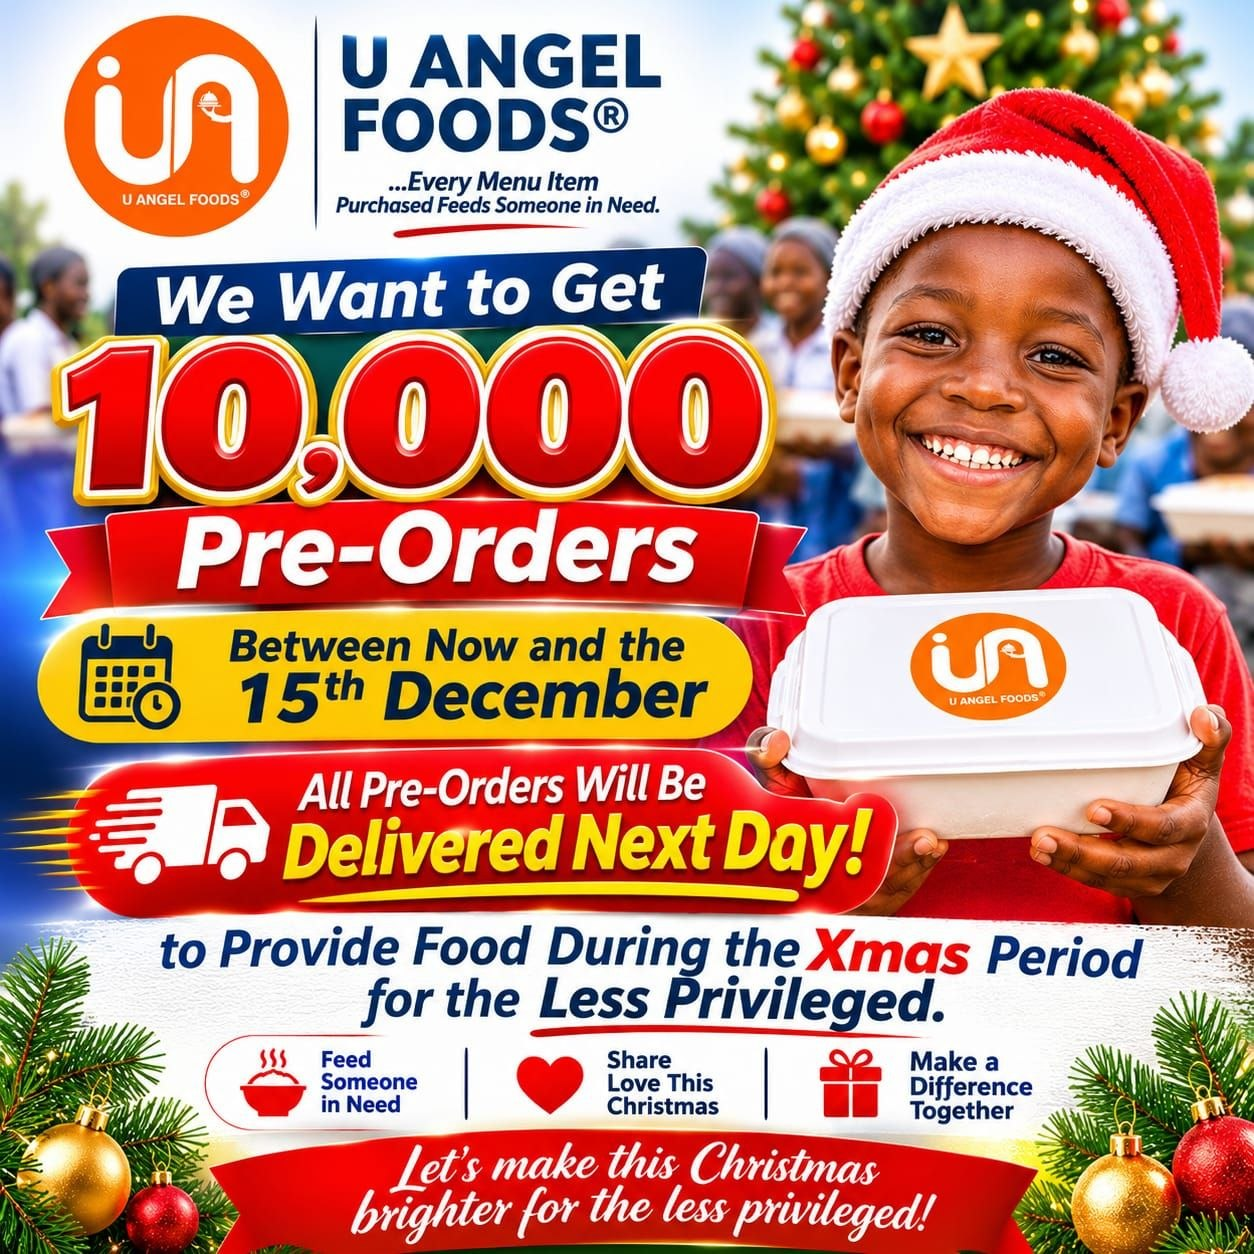
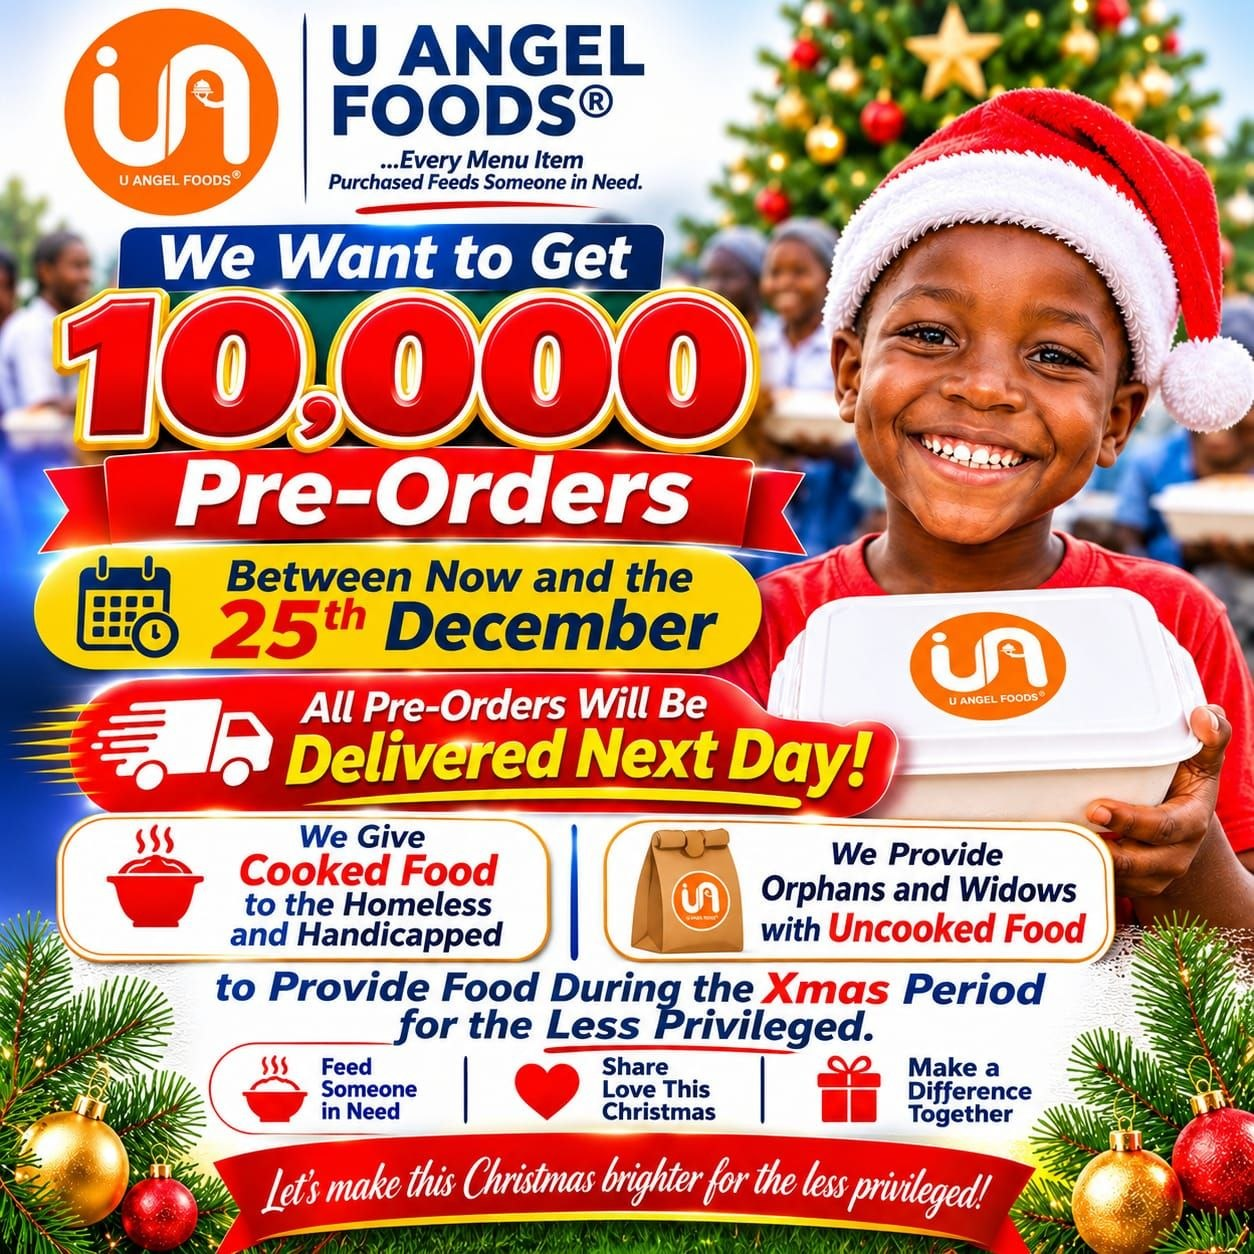
Christmas campaign: new flyer, deadline 25 December, cooked/uncooked food points

diff --git a/website/index.html b/website/index.html
@@ -12,8 +12,8 @@
   <meta property="og:site_name" content="U Angel Foods">
   <meta property="og:title" content="U Angel Foods — Every menu item purchased feeds someone in need">
   <meta property="og:description" content="Good food delivered across Lagos. The profit from what you buy supports our outreach programs. An initiative of Ecclesia Nation.">
-  <meta property="og:image" content="assets/campaign/xmas-10000-preorders.jpg">
-  <meta property="og:image:alt" content="U Angel Foods Christmas campaign: we want to get 10,000 pre-orders by 15 December">
+  <meta property="og:image" content="assets/campaign/xmas-10000-preorders-25dec.jpg">
+  <meta property="og:image:alt" content="U Angel Foods Christmas campaign: we want to get 10,000 pre-orders by 25 December">
   <meta property="og:locale" content="en_NG">
   <meta name="twitter:card" content="summary_large_image">
   <link rel="icon" type="image/png" sizes="32x32" href="assets/icon-32.png">
@@ -29,7 +29,7 @@
     (function () {
       var d = document.documentElement, off = false;
       try { off = sessionStorage.getItem('ua-xbar-dismissed') === '1'; } catch (e) {}
-      if (!off && Date.now() < Date.UTC(2026, 11, 15, 22, 59)) d.classList.add('has-xbar');
+      if (!off && Date.now() < Date.UTC(2026, 11, 25, 22, 59)) d.classList.add('has-xbar');
     })();
   </script>
 
@@ -53,8 +53,8 @@
     <div class="xbar-inner container">
       <p class="xbar-text">
         <span aria-hidden="true"><svg class="ico" viewBox="0 0 24 24" fill="none" stroke="currentColor" stroke-width="1.9" stroke-linecap="round" stroke-linejoin="round" aria-hidden="true"><path d="M12 2l5 7h-3l4 6h-4l3 5H7l3-5H6l4-6H7z"/><path d="M12 20v2"/></svg></span>
-        <span class="xbar-long">Help us reach <b>10,000 pre-orders</b> by 15 December. Every pre-order feeds someone in need this Christmas.</span>
-        <span class="xbar-short"><b>10,000 pre-orders</b> by 15 Dec. Every pre-order feeds someone.</span>
+        <span class="xbar-long">Help us reach <b>10,000 pre-orders</b> by 25 December. Every pre-order feeds someone in need this Christmas.</span>
+        <span class="xbar-short"><b>10,000 pre-orders</b> by 25 Dec. Every pre-order feeds someone.</span>
       </p>
       <a class="xbar-link" href="#christmas">Pre-order →</a>
       <button class="xbar-close" id="xbar-close" type="button" aria-label="Dismiss Christmas announcement">
@@ -122,20 +122,20 @@
     </section>
 
 
-    <!-- ============ CHRISTMAS CAMPAIGN (hidden automatically after 15 Dec) ============ -->
+    <!-- ============ CHRISTMAS CAMPAIGN (hidden automatically after 25 Dec) ============ -->
     <section class="section xmas2" id="christmas" aria-labelledby="xmas-title" data-xmas>
       <div class="container">
         <figure class="flyer">
-          <img src="assets/campaign/xmas-10000-preorders.jpg" width="1254" height="1254" loading="lazy" decoding="async"
-               alt="U Angel Foods Christmas flyer: a smiling child in a Santa hat holds a U Angel Foods meal box. We want to get 10,000 pre-orders between now and the 15th December. All pre-orders will be delivered next day, to provide food during the Xmas period for the less privileged.">
+          <img src="assets/campaign/xmas-10000-preorders-25dec.jpg" width="1254" height="1254" loading="lazy" decoding="async"
+               alt="U Angel Foods Christmas flyer: a smiling child in a Santa hat holds a U Angel Foods meal box. We want to get 10,000 pre-orders between now and the 25th December. All pre-orders will be delivered next day, to provide food during the Xmas period for the less privileged.">
         </figure>
         <div>
           <p class="eyebrow"><svg class="ico" viewBox="0 0 24 24" fill="none" stroke="currentColor" stroke-width="1.9" stroke-linecap="round" stroke-linejoin="round" aria-hidden="true"><path d="M12 2l5 7h-3l4 6h-4l3 5H7l3-5H6l4-6H7z"/><path d="M12 20v2"/></svg> Christmas campaign</p>
-          <h2 id="xmas-title">Help us reach <b>10,000 pre-orders</b> by 15 December</h2>
+          <h2 id="xmas-title">Help us reach <b>10,000 pre-orders</b> by 25 December</h2>
           <ul class="xfacts">
-            <li><span style="background:#FDECEC;color:#C8102E" aria-hidden="true"><svg class="ico" viewBox="0 0 24 24" fill="none" stroke="currentColor" stroke-width="1.9" stroke-linecap="round" stroke-linejoin="round" aria-hidden="true"><path d="M3 11h18a9 9 0 0 1-18 0z"/><path d="M8 7c0-1.5 1-1.5 1-3M12 7c0-1.5 1-1.5 1-3M16 7c0-1.5 1-1.5 1-3"/></svg></span><div><b>Your pre-order feeds someone</b><small>Every pre-order helps provide food during the Xmas period for the less privileged.</small></div></li>
+            <li><span style="background:#FDECEC;color:#C8102E" aria-hidden="true"><svg class="ico" viewBox="0 0 24 24" fill="none" stroke="currentColor" stroke-width="1.9" stroke-linecap="round" stroke-linejoin="round" aria-hidden="true"><path d="M3 11h18a9 9 0 0 1-18 0z"/><path d="M8 7c0-1.5 1-1.5 1-3M12 7c0-1.5 1-1.5 1-3M16 7c0-1.5 1-1.5 1-3"/></svg></span><div><b>Cooked food for the homeless</b><small>We give cooked food to the homeless and handicapped during the Xmas period.</small></div></li>
             <li><span style="background:#FFF5DB;color:#B7791F" aria-hidden="true"><svg class="ico" viewBox="0 0 24 24" fill="none" stroke="currentColor" stroke-width="1.9" stroke-linecap="round" stroke-linejoin="round" aria-hidden="true"><path d="M1 6h13v10H1z"/><path d="M14 9h4l3 3v4h-7"/><circle cx="5.5" cy="18" r="1.8"/><circle cx="17.5" cy="18" r="1.8"/></svg></span><div><b>Delivered next day</b><small>All pre-orders are delivered the day after you order.</small></div></li>
-            <li><span style="background:#EAF7EF;color:#2F9B65" aria-hidden="true"><svg class="ico" viewBox="0 0 24 24" fill="none" stroke="currentColor" stroke-width="1.9" stroke-linecap="round" stroke-linejoin="round" aria-hidden="true"><rect x="3" y="8" width="18" height="4" rx="1"/><path d="M12 8v13M5 12v9h14v-9"/><path d="M7.5 8a2.5 2.5 0 0 1 0-5C10 3 12 8 12 8s2-5 4.5-5a2.5 2.5 0 0 1 0 5"/></svg></span><div><b>Make a difference together</b><small>Let’s make this Christmas brighter for the less privileged.</small></div></li>
+            <li><span style="background:#EAF7EF;color:#2F9B65" aria-hidden="true"><svg class="ico" viewBox="0 0 24 24" fill="none" stroke="currentColor" stroke-width="1.9" stroke-linecap="round" stroke-linejoin="round" aria-hidden="true"><rect x="3" y="8" width="18" height="4" rx="1"/><path d="M12 8v13M5 12v9h14v-9"/><path d="M7.5 8a2.5 2.5 0 0 1 0-5C10 3 12 8 12 8s2-5 4.5-5a2.5 2.5 0 0 1 0 5"/></svg></span><div><b>Food for orphans and widows</b><small>We provide orphans and widows with uncooked food. Let’s make this Christmas brighter together.</small></div></li>
           </ul>
           <div class="cd2" id="xmas-countdown" role="timer" aria-label="Time left in the Christmas pre-order campaign">
             <small>Closes in</small>

diff --git a/website/admin/js/promotions.js b/website/admin/js/promotions.js
@@ -50,7 +50,7 @@
 
   var XMAS_KEY = 'christmas_banner';
   var XMAS_COLOR = '#C8102E';
-  var XMAS_DEFAULT = { enabled: true, eyebrow: 'Christmas pre-order', title: 'Help us reach 10,000 pre-orders', cta: 'Pre-order now', image_url: 'https://uangelfoods.com/assets/campaign/xmas-10000-preorders.jpg' };
+  var XMAS_DEFAULT = { enabled: true, eyebrow: 'Christmas pre-order', title: 'Help us reach 10,000 pre-orders', cta: 'Pre-order now', image_url: 'https://uangelfoods.com/assets/campaign/xmas-10000-preorders-25dec.jpg' };
 
   function xmasHtml() {
     var x = S.xmas;
@@ -59,7 +59,7 @@
         bannerHtml({ eyebrow: x.eyebrow, title: x.title, cta: x.cta, color: XMAS_COLOR }, x.image_url) + '</button>' +
       '<div style="flex:1 1 220px;display:flex;flex-direction:column;gap:8px">' +
         '<b>Christmas pre-order banner</b>' +
-        '<span class="cg-help" style="margin:0">Always first in the app, with the live pre-order progress bar. Also controls the Christmas section on the website. Ends by itself after 15 December.</span>' +
+        '<span class="cg-help" style="margin:0">Always first in the app, with the live pre-order progress bar. Also controls the Christmas section on the website. Ends by itself after 25 December.</span>' +
         '<div style="display:flex;gap:8px;flex-wrap:wrap;align-items:center">' +
           '<button type="button" class="pp-switch" role="switch" aria-checked="' + (x.enabled !== false) + '" data-xmas-toggle aria-label="Show the Christmas banner"><i></i>' + (x.enabled !== false ? 'On' : 'Off') + '</button>' +
           '<button type="button" class="btn btn-ghost btn-sm" data-xmas-edit>Edit</button>' +
@@ -145,7 +145,7 @@
   async function load() {
     var xr = await A.sb.from('site_settings').select('value').eq('key', XMAS_KEY).maybeSingle();
     S.xmas = Object.assign({}, XMAS_DEFAULT, (xr && !xr.error && xr.data && xr.data.value) || {});
-    S.xmasLive = Date.now() < Date.UTC(2026, 11, 15, 22, 59); // same end as the app (constants/campaign.ts)
+    S.xmasLive = Date.now() < Date.UTC(2026, 11, 25, 22, 59); // same end as the app (constants/campaign.ts)
     var r = await Promise.all([
       A.sb.from('promotions').select(COLS).order('sort_order', { ascending: true }).order('created_at', { ascending: true }),
       A.sb.from('categories').select('id,name,parent_id,kind,sort_order').is('parent_id', null).order('sort_order'),

diff --git a/app/christmas.tsx b/app/christmas.tsx
@@ -24,9 +24,9 @@ const FLYER = SCREEN_W - GUTTER * 2 - 24;
 const CARD_W = (SCREEN_W - GUTTER * 2 - 12) / 2;
 
 const POINTS: { icon: IconName; tint: string; color: string; title: string; text: string }[] = [
-    { icon: "restaurant", tint: "#FDECEC", color: RED, title: "Your pre-order feeds someone", text: "Every pre-order helps provide food during the Xmas period for the less privileged." },
+    { icon: "restaurant", tint: "#FDECEC", color: RED, title: "Cooked food for the homeless", text: "We give cooked food to the homeless and handicapped during the Xmas period." },
+    { icon: "basket", tint: "#EAF7EF", color: "#15803D", title: "Food for orphans and widows", text: "We provide orphans and widows with uncooked food." },
     { icon: "car-sport", tint: "#FFF5DB", color: "#B45309", title: "Delivered next day", text: "All pre-orders are delivered the day after you order." },
-    { icon: "gift", tint: "#EAF7EF", color: "#15803D", title: "Make a difference together", text: "Let’s make this Christmas brighter for the less privileged." },
 ];
 
 function useCountdown() {
@@ -72,7 +72,7 @@ export default function Christmas() {
                         <Text style={styles.eyebrow}>CHRISTMAS 2026 CAMPAIGN</Text>
                     </View>
                     <Text style={styles.heroTitle}>Help us reach{"\n"}10,000 pre-orders</Text>
-                    <Text style={styles.heroText}>Between now and 15 December. Every order feeds someone in need.</Text>
+                    <Text style={styles.heroText}>Between now and 25 December. Every order feeds someone in need.</Text>
                     <Image
                         source={CAMPAIGN_FLYER}
                         style={styles.flyer}

diff --git a/website/about.html b/website/about.html
@@ -27,7 +27,7 @@
     (function () {
       var d = document.documentElement, off = false;
       try { off = sessionStorage.getItem('ua-xbar-dismissed') === '1'; } catch (e) {}
-      if (!off && Date.now() < Date.UTC(2026, 11, 15, 22, 59)) d.classList.add('has-xbar');
+      if (!off && Date.now() < Date.UTC(2026, 11, 25, 22, 59)) d.classList.add('has-xbar');
     })();
   </script>
 </head>
@@ -39,8 +39,8 @@
     <div class="xbar-inner container">
       <p class="xbar-text">
         <span aria-hidden="true"><svg class="ico" viewBox="0 0 24 24" fill="none" stroke="currentColor" stroke-width="1.9" stroke-linecap="round" stroke-linejoin="round" aria-hidden="true"><path d="M12 2l5 7h-3l4 6h-4l3 5H7l3-5H6l4-6H7z"/><path d="M12 20v2"/></svg></span>
-        <span class="xbar-long">Christmas campaign: help us reach <b>10,000 pre-orders</b> by 15 December. Every order feeds someone in need.</span>
-        <span class="xbar-short"><b>10,000 pre-orders</b> by 15 Dec. Every order feeds someone in need.</span>
+        <span class="xbar-long">Christmas campaign: help us reach <b>10,000 pre-orders</b> by 25 December. Every order feeds someone in need.</span>
+        <span class="xbar-short"><b>10,000 pre-orders</b> by 25 Dec. Every order feeds someone in need.</span>
       </p>
       <a class="xbar-link" href="index.html#christmas">Pre-order →</a>
       <button class="xbar-close" id="xbar-close" type="button" aria-label="Dismiss Christmas announcement">

diff --git a/website/js/live-content.js b/website/js/live-content.js
@@ -54,14 +54,14 @@
       return;
     }
     var h = document.getElementById('xmas-title');
-    // Keep the designed heading ("…by 15 December", bold number) unless the admin changed it.
+    // Keep the designed heading ("…by 25 December", bold number) unless the admin changed it.
     if (h && typeof x.title === 'string' && x.title.trim() && x.title.trim() !== 'Help us reach 10,000 pre-orders') h.textContent = x.title.trim();
     var eyebrow = document.querySelector('#christmas .eyebrow');
     if (eyebrow && typeof x.eyebrow === 'string' && x.eyebrow.trim()) eyebrow.textContent = x.eyebrow.trim();
     var cta = document.querySelector('#christmas .hero-ctas a');
     if (cta && typeof x.cta === 'string' && x.cta.trim()) cta.textContent = x.cta.trim() + ' →';
     var img = document.querySelector('#christmas .flyer img'), url = safeUrl(x.image_url);
-    if (img && url && img.getAttribute('src') !== url && !/xmas-10000-preorders\.jpg$/.test(url)) {
+    if (img && url && img.getAttribute('src') !== url && !/xmas-10000-preorders-25dec\.jpg$/.test(url)) {
       img.removeAttribute('width'); img.removeAttribute('height'); img.src = url;
     }
   }).catch(function () { /* keep defaults */ });

diff --git a/website/js/main.js b/website/js/main.js
@@ -2,7 +2,7 @@
    menu, header border on scroll, Christmas strip/section/countdown, footer year. */
 (function () {
   'use strict';
-  var CAMPAIGN_END = Date.UTC(2026, 11, 15, 22, 59); // 15 Dec 2026, 23:59 Lagos time
+  var CAMPAIGN_END = Date.UTC(2026, 11, 25, 22, 59); // 25 Dec 2026, 23:59 Lagos time
   // Stable download link: /download redirects to the newest APK (see vercel.json → redirects).
   // After each new app build, update that redirect; the button and QR code never change.
   var APP_URL = 'https://uangelfoods.com/download';

diff --git a/constants/campaign.ts b/constants/campaign.ts
@@ -1,6 +1,6 @@
 /** Christmas 2026 pre-order campaign (Home slide + app/christmas.tsx). Hidden after CAMPAIGN_END. */
 export const CAMPAIGN_GOAL = 10000;
-export const CAMPAIGN_END = Date.UTC(2026, 11, 15, 22, 59); // 15 Dec 2026, 23:59 Lagos time
+export const CAMPAIGN_END = Date.UTC(2026, 11, 25, 22, 59); // 25 Dec 2026, 23:59 Lagos time
 export const CAMPAIGN_FLYER = require("../assets/images/xmas-preorder.jpg");
 
 export const campaignLive = () => Date.now() < CAMPAIGN_END;

diff --git a/app/(tabs)/index.tsx b/app/(tabs)/index.tsx
@@ -78,7 +78,7 @@ export default function Index() {
     return items.slice(0, 10);
   }, [orders]);
 
-  // Banners: the Christmas pre-order slide first (until 15 Dec), then the admin's
+  // Banners: the Christmas pre-order slide first (until 25 Dec), then the admin's
   // Promotions, or the two built-in ones when none are live.
   const baseSlides: PromoSlide[] = useMemo(() => {
     if (promos?.length) {
